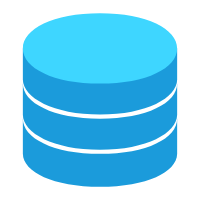
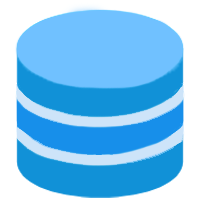
完善数据库模块新建连接窗口

diff --git a/Fdog-Kit/module_database/databasewidget.cpp b/Fdog-Kit/module_database/databasewidget.cpp
@@ -13,6 +13,7 @@
 #include <QLabel>
 #include <QPropertyAnimation>
 #include <QMenu>
+#include <QPlainTextEdit>
 databasewidget::databasewidget(QWidget *parent) :
     QWidget(parent),
     ui(new Ui::databasewidget)
@@ -141,10 +142,10 @@ void databasewidget::newDBWidget(connnectInfoStruct &cInfoStruct)
     qDebug() << "触发6";
     database = QSqlDatabase::addDatabase("QMYSQL");
     database.setDatabaseName("IM_BADWORD");
-    // database.setHostName(cInfoStruct.host);
-    // database.setPort(cInfoStruct.port.toInt());
-    // database.setUserName(cInfoStruct.userName);
-    // database.setPassword(cInfoStruct.password);
+    database.setHostName(cInfoStruct.host);
+    database.setPort(cInfoStruct.port.toInt());
+    database.setUserName(cInfoStruct.userName);
+    database.setPassword(cInfoStruct.password);
 
 
 
@@ -196,7 +197,7 @@ void databasewidget::on_treeWidget_db_itemClicked(QTreeWidgetItem *item, int col
             while(sqlQuery.next())
             {
                 QTreeWidgetItem *parentItem = new QTreeWidgetItem(item);
-                QIcon icon2(":/module_database/images/dark/table.png");
+                QIcon icon2(":/module_database/images/dark/table7.png");
                 parentItem->setIcon(0, icon2);
                 parentItem->setText(0, sqlQuery.value(0).toString());
             }
@@ -406,7 +407,31 @@ void databasewidget::rece_deleteConnect()
 
 void databasewidget::rece_showCraeteTable()
 {
+    QTreeWidgetItem* selectedItem = ui->treeWidget_db->currentItem();
+    QString dataBaseName = selectedItem->parent()->text(0);
+    QString tableName = selectedItem->text(0);
+    QSqlQuery query(database);
+    QString sql = QString("USE `%1`").arg(dataBaseName);
+    query.exec(sql); 
+    sql = QString("SHOW CREATE TABLE `%1`").arg(tableName);
+    if (!query.exec(sql)) {
+        qDebug() << "查询失败：" << query.lastError().text();
+        return;
+    }
 
+    // 3. 解析结果
+    if (query.next()) {
+        QString createTableSQL = query.value(1).toString(); // 第 2 列是 CREATE TABLE 语句
+        qDebug() << "创建表 SQL 语句：" << createTableSQL;
+        //创建一个tab
+        QPlainTextEdit * textWidget = new QPlainTextEdit(createTableSQL);
+        textWidget->setStyleSheet("font: 10pt \"OPPOSans B\"; border: 0px solid rgba(197, 197, 197,50); background-color: rgba(255, 255, 255, 0); color: rgb(255, 255, 255);");
+        QSize iconSize(20, 20); // 设置图标的大小
+        ui->tabWidget->addTab(textWidget, QIcon(":/module_database/images/dark/sql.png").pixmap(iconSize), tableName);
+        ui->tabWidget->setCurrentIndex(ui->tabWidget->count()-1);
+    } else {
+        qDebug() << "未找到表";
+    }
 }
 
 void databasewidget::rece_showTableData()
@@ -418,7 +443,7 @@ void databasewidget::rece_showTableData()
     QTableWidget * twidget = new QTableWidget();
     twidget->setStyleSheet(":/module_database/qss/tableWidget.qss");
     QSize iconSize(20, 20); // 设置图标的大小
-    ui->tabWidget->addTab(twidget, QIcon(":/module_database/images/dark/table.png").pixmap(iconSize),  "  " + tableName + "  ");
+    ui->tabWidget->addTab(twidget, QIcon(":/module_database/images/dark/table7.png").pixmap(iconSize), tableName);
     ui->tabWidget->setCurrentIndex(ui->tabWidget->count()-1);
     QSqlQuery sqlQuery2(database);
     QString cc = "BADWORD";
@@ -477,5 +502,11 @@ void databasewidget::rece_showField()
 void databasewidget::rece_deleteField()
 {
 
+}
+
+
+void databasewidget::on_toolButton_newCreate_clicked()
+{
+    emit send_newCreateDatabase(); //发送新建数据库信号
 }
 

diff --git a/Fdog-Kit/module_mainwindow/mainwindow.cpp b/Fdog-Kit/module_mainwindow/mainwindow.cpp
@@ -1043,6 +1043,7 @@ void MainWindow::on_toolButton_side_mysql_clicked() {
     ui->label_title->setText("数据库工具");
     if (m_dbwidget == nullptr) {
         m_dbwidget = new databasewidget();
+        connect(m_dbwidget,SIGNAL(send_newCreateDatabase()),this,SLOT(rece_newCreateDatabase()));
         m_dbwidget->setObjectName("m_dbwidget");
         ui->stackedWidget->addWidget(m_dbwidget);
         m_dbwidget->show();
@@ -1058,6 +1059,14 @@ void MainWindow::on_toolButton_side_mysql_clicked() {
         }
     }
 
+}
+
+void MainWindow::rece_newCreateDatabase() {
+    int8_t connectType = 4;
+    m_ccwidget = new createconnect(connectType);
+    connect(m_ccwidget,SIGNAL(newCreate(connnectInfoStruct&)),this,SLOT(rece_newConnnect(connnectInfoStruct&)));
+    connect(m_ccwidget,SIGNAL(newSave(connnectInfoStruct&)),this,SLOT(rece_newSave(connnectInfoStruct&)));
+    m_ccwidget->show();
 }
 
 void MainWindow::on_toolButton_side_tool_clicked() {

diff --git a/Fdog-Kit/module_database/databasewidget.h b/Fdog-Kit/module_database/databasewidget.h
@@ -28,6 +28,10 @@ public:
     //新建连接
     void newDBWidget(connnectInfoStruct& cInfoStruct);
 
+signals:
+
+    void send_newCreateDatabase();
+
 private slots:
     void on_treeWidget_db_itemClicked(QTreeWidgetItem *item, int column);
 
@@ -49,6 +53,8 @@ private slots:
     void rece_showField();
     void rece_deleteField();
 
+
+    void on_toolButton_newCreate_clicked();
 
 private:
     Ui::databasewidget *ui;

diff --git a/Fdog-Kit/module_mainwindow/mainwindow.h b/Fdog-Kit/module_mainwindow/mainwindow.h
@@ -161,6 +161,8 @@ private slots:
     void on_toolButton_side_qss_clicked();
     //数据库按钮信号
     void on_toolButton_side_mysql_clicked();
+    //数据库新建窗口信号
+    void rece_newCreateDatabase();
     //工具按钮信号
     void on_toolButton_side_tool_clicked();
     //主题按钮信号
